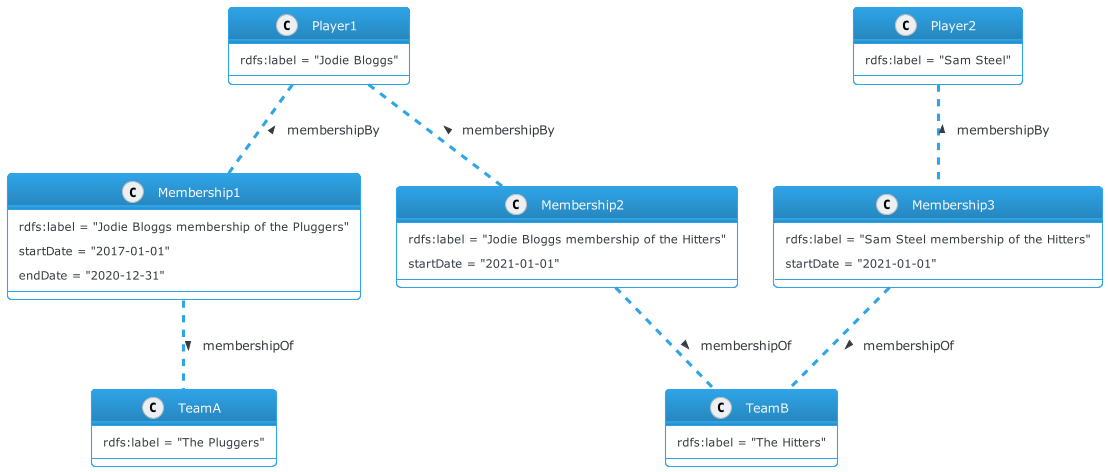
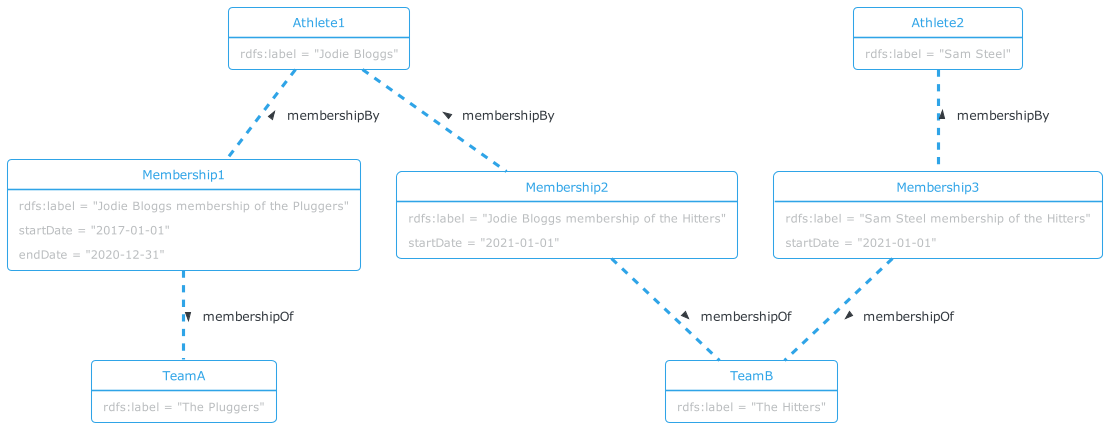
Updates to documentation and diagrams, still a work in progess

diff --git a/docs/schema-overview.md b/docs/schema-overview.md
@@ -1,32 +1,82 @@
 # IPTC Sport Schema overview
 
-The IPTC Sport Schema aims to be simple and comprehensive, while re-using the
-main components from the IPTC SportsML standard.
+The IPTC Sport Schema aims to be simple and comprehensive, while leveraging the structures already used in IPTC's 10-year-old
+SportsML standard.
 
-An important property of a RDF-based data model, as opposed to an XML
-Schema such as SportsML, is that we must assume that the data persists in the
-database, so all queries must be qualified by filters to only match a given
-event, sport, league, date etc.
+This guide explains some of the core structures and patterns used in the IPTC Sport Schema. 
 
-On the other hand, an XML approach treats every data file as a standalone
-document which covers a particular piece of information.
+## Key concepts
+
+### Document-based vs open data models
+
+Data models based on XML Schema, such as IPTC's SportsML, treat each data file as a standalone document which conveys a particular set of information.
+
+On the other hand, an RDF-based data model assumes that all data exists in the database together.
+
+The practical result of this is that when querying, we can't simply say "tell me the winner of the game." We have to be specific about exactly which game we mean. All queries must be qualified by filters to only match a given event, sport, league, date etc.
 
 This has led to us creating several generic structures which allow us to
-capture richer information about players, teams and events.
+capture richer information about people, teams and events.
 
-For example, in a SportsML document, it is sufficient to say "Player A and
-Player B play for Team 1", so we could imagine a relationship like the
+### Linking people to teams: the "Membership" class
+
+In a SportsML document, it is sufficient to say "Athlete A and
+Athlete B play for Team 1", so we could imagine a relationship like the
 following:
 
-![Simple player to team relationship](diagrams/simple-player-team.png)
+![Simple athlete to team relationship](diagrams/simple-athlete-team.png)
 
-But in a world where every fact about every sports event, team, player and
+But in a world where every fact about every sports event, team, athlete (player) and
 statistic may be added to an ever-growing database, we need to specify more
-information about the relationship. What happens when a player switches teams?
-How about when a player plays simultaneously for a league team and the national
-team?
+information about the relationship. Otherwise, what would happen when an athlete switches teams?
+Or how would we represent a athlete that plays simultaneously for a league team and the national team?
 
 To solve this, we introduce the concept of a *Membership*, a separate object
-which can include more details such as a "from" and "to" date:
+that sits between Athlete and Team which can include more details such as a
+"from" and "to" date:
 
 ![IPTC Sport Schema athlete to team relationship](diagrams/athlete-membership-team.png)
+
+In this way, we can represent things such as:
+* A coach that works with more than one team at the same time, even in different sports
+* An athlete that moves from one team to another over the course of their career
+* An athlete that switches sports completely! (Michael Jordan, for example, switched from NBA Basketball to Major League Baseball, and back again)
+
+This approach makes querying slightly more difficult, but not much more. In SPARQL, a query might look like the following:
+
+```
+SELECT ?teamName ?athleteName ?athletePosition ?dob ?uniformNumber
+WHERE
+{
+    ?athlete rdf:type sport:Athlete ;
+            rdfs:label ?athleteName .
+    ?membership rdf:type sport:IndividualMembership ;
+                sport:membershipBy ?player ;
+                sport:membershipOf ?team .
+    ?team rdf:type sport:Team ;
+          rdfs:label ?teamName ;
+          sport:membership ?membership .
+    OPTIONAL { ?membership sport:positionRegular ?athletePosition . }
+    OPTIONAL { ?player sport:dateOfBirth ?dob . }
+    OPTIONAL { ?membership sport:uniformNumber ?uniformNumber . }
+    FILTER (?team = <http://example.com/Team/T2>) # Aston Villa
+}
+```
+
+See the [example queries](../queries/) for more examples.
+
+### Participation: A container for statistics
+
+In a similar fashion, when an athlete or a team takes part in an event, we want
+to record statistics about each athlete's individual contributions to the event:
+goals kicked, penalties received etc.
+ 
+Separately, we want to record the team's contributions, including of course the team's score.
+
+To handle this need, we have introduced the concept of a *Participation* which links people and teams to events.
+
+We define a generic parent *Participation* class and subclasses for *IndividualParticipation* and *TeamParticipation*.
+
+The TeamParticipation object comes into existence as soon as a team is scheduled to compete in an event. The IndividualParticipation comes into existence when the team member is added to the line-up for a team participating in an Event.
+
+![IPTC Sport Schema athlete and team participation example](diagrams/athlete-team-participation.png)
